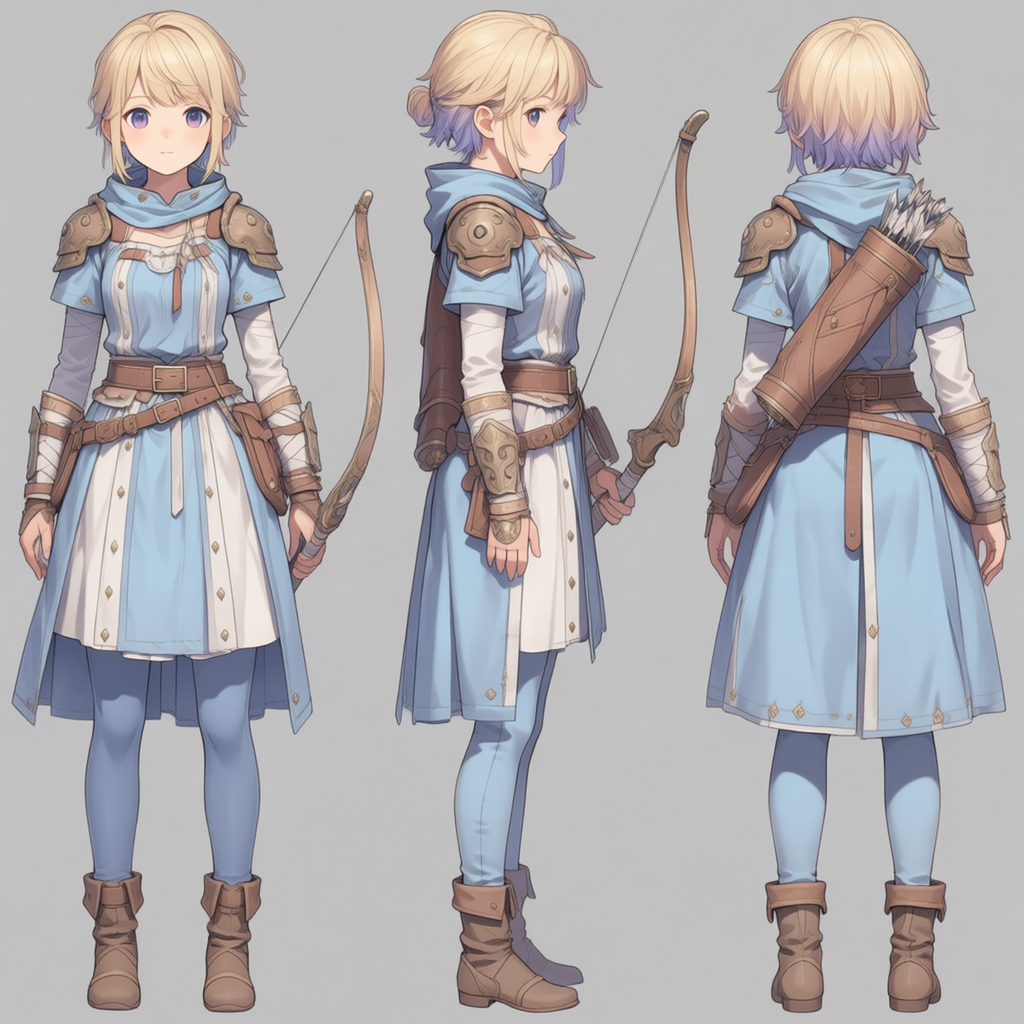
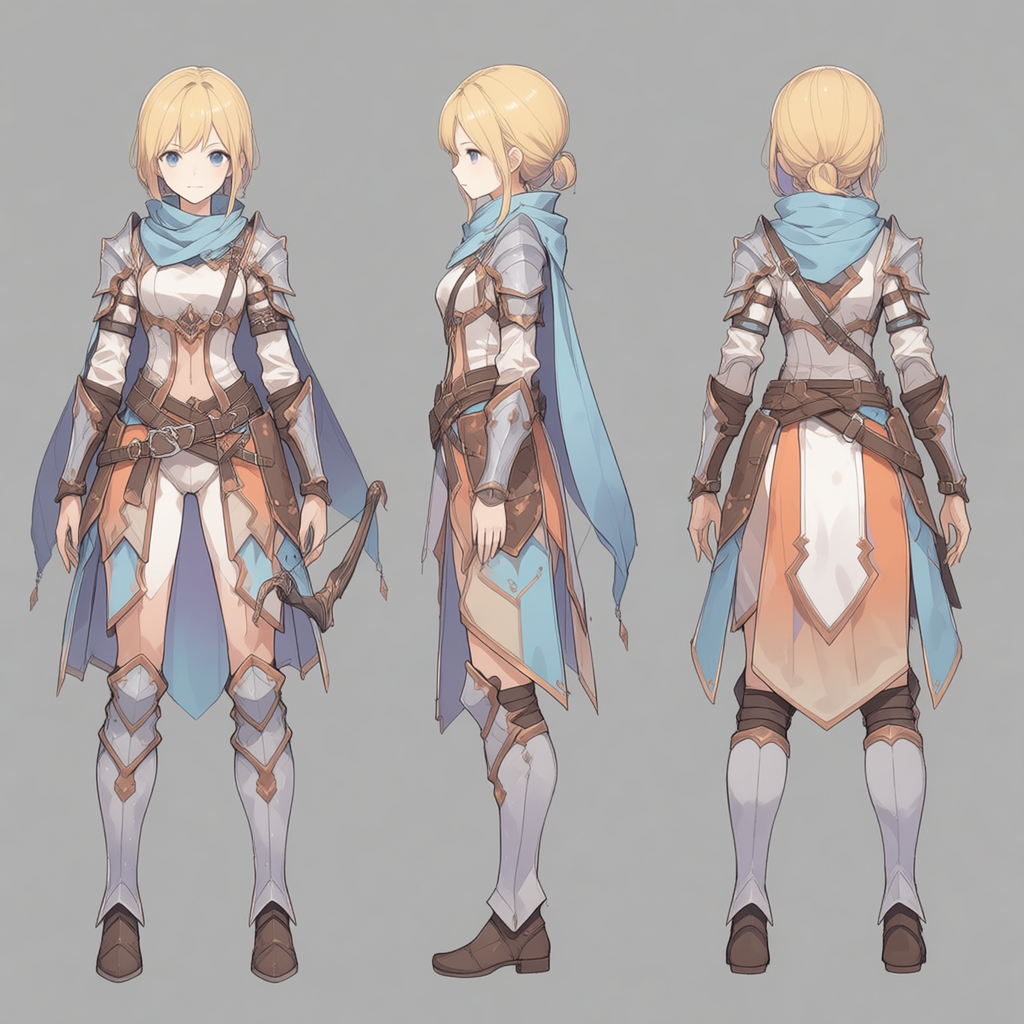
art: regenerate Archer sheets with alternate color palettes
Archive first Archer set; add four recolor variants (forest, sunset,
midnight, cream/crimson) via Ludo for user pick.

diff --git a/assets/art/candidates/archer-sheet/README.md b/assets/art/candidates/archer-sheet/README.md
@@ -1,4 +1,11 @@
-# Stage 4 — Archer full-body sheet candidates
+# Stage 4 — Archer full-body sheet (recolor set)
 
-Style locked from Mage sheet **v3**. Generated via Ludo `generateWithStyle`.
-Pick **v1–v4** (reply A1–A4).
+Previous set archived in `set1/`.
+
+New color variants (Ludo `generateWithStyle`):
+- **A1** — forest emerald / moss / bronze
+- **A2** — sunset coral / sand / copper
+- **A3** — midnight indigo / silver / lavender
+- **A4** — cream cloak / crimson sash / gold
+
+Pick **A1–A4**.
